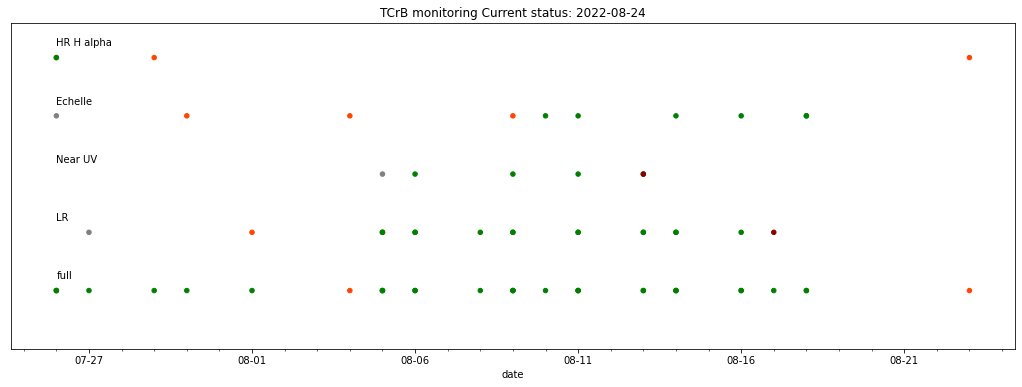
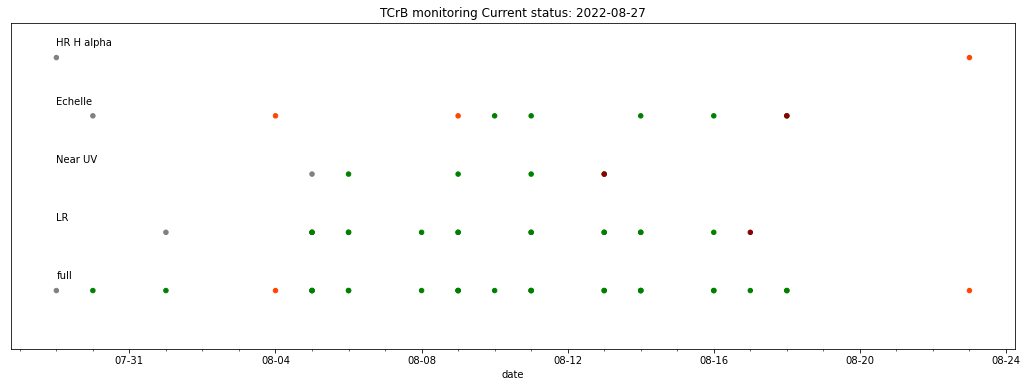
2022-08-27

diff --git a/symbiotics-merc.html b/symbiotics-merc.html
@@ -1648,6 +1648,22 @@
       <td><a href="figures/asdb_v371cra_20220824_238.png" target="_blank"><svg width="1em" height="1em" viewBox="0 0 16 16" class="bi bi-eye" fill="currentColor" xmlns="http://www.w3.org/2000/svg"><path fill-rule="evenodd" d="M16 8s-3-5.5-8-5.5S0 8 0 8s3 5.5 8 5.5S16 8 16 8zM1.173 8a13.134 13.134 0 0 0 1.66 2.043C4.12 11.332 5.88 12.5 8 12.5c2.12 0 3.879-1.168 5.168-2.457A13.134 13.134 0 0 0 14.828 8a13.133 13.133 0 0 0-1.66-2.043C11.879 4.668 10.119 3.5 8 3.5c-2.12 0-3.879 1.168-5.168 2.457A13.133 13.133 0 0 0 1.172 8z"/><path fill-rule="evenodd" d="M8 5.5a2.5 2.5 0 1 0 0 5 2.5 2.5 0 0 0 0-5zM4.5 8a3.5 3.5 0 1 1 7 0 3.5 3.5 0 0 1-7 0z"/></svg></a></td>
       <td></td>
     </tr>
+    <tr>
+      <td>Src 196</td>
+      <td>2022-08-26</td>
+      <td>8:20</td>
+      <td>59817.348</td>
+      <td>2SPOT</td>
+      <td>DSC-CL</td>
+      <td>568</td>
+      <td><svg xmlns="http://www.w3.org/2000/svg" width="5" height="16" fill="#007bff" class="bi bi-square-fill" viewBox="1 0 5 16"><path d="M0 2a2 2 0 0 1 2-2h12a2 2 0 0 1 2 2v12a2 2 0 0 1-2 2H2a2 2 0 0 1-2-2V2z"/></svg></td>
+      <td>3850</td>
+      <td>7808</td>
+      <td><svg xmlns="http://www.w3.org/2000/svg" width="5" height="16" fill="#151B8D" class="bi bi-square-fill" viewBox="1 0 5 16"><path d="M0 2a2 2 0 0 1 2-2h12a2 2 0 0 1 2 2v12a2 2 0 0 1-2 2H2a2 2 0 0 1-2-2V2z"/></svg><svg xmlns="http://www.w3.org/2000/svg" width="5" height="16" fill="#4AA02C" class="bi bi-square-fill" viewBox="1 0 5 16"><path d="M0 2a2 2 0 0 1 2-2h12a2 2 0 0 1 2 2v12a2 2 0 0 1-2 2H2a2 2 0 0 1-2-2V2z"/></svg><svg xmlns="http://www.w3.org/2000/svg" width="5" height="16" fill="#EAC117" class="bi bi-square-fill" viewBox="1 0 5 16"><path d="M0 2a2 2 0 0 1 2-2h12a2 2 0 0 1 2 2v12a2 2 0 0 1-2 2H2a2 2 0 0 1-2-2V2z"/></svg><svg xmlns="http://www.w3.org/2000/svg" width="5" height="16" fill="#E42217" class="bi bi-square-fill" viewBox="1 0 5 16"><path d="M0 2a2 2 0 0 1 2-2h12a2 2 0 0 1 2 2v12a2 2 0 0 1-2 2H2a2 2 0 0 1-2-2V2z"/></svg><svg xmlns="http://www.w3.org/2000/svg" width="5" height="16" fill="#8C001A" class="bi bi-square-fill" viewBox="1 0 5 16"><path d="M0 2a2 2 0 0 1 2-2h12a2 2 0 0 1 2 2v12a2 2 0 0 1-2 2H2a2 2 0 0 1-2-2V2z"/></svg></td>
+      <td><a href="spectra/asdb_src196_20220826_347.fit" download target="_blank"><svg width="1em" height="1em" viewBox="0 0 16 16" class="bi bi-download" fill="currentColor" xmlns="http://www.w3.org/2000/svg"><path fill-rule="evenodd" d="M.5 8a.5.5 0 0 1 .5.5V12a1 1 0 0 0 1 1h12a1 1 0 0 0 1-1V8.5a.5.5 0 0 1 1 0V12a2 2 0 0 1-2 2H2a2 2 0 0 1-2-2V8.5A.5.5 0 0 1 .5 8z"/><path fill-rule="evenodd" d="M5 7.5a.5.5 0 0 1 .707 0L8 9.793 10.293 7.5a.5.5 0 1 1 .707.707l-2.646 2.647a.5.5 0 0 1-.708 0L5 8.207A.5.5 0 0 1 5 7.5z"/><path fill-rule="evenodd" d="M8 1a.5.5 0 0 1 .5.5v8a.5.5 0 0 1-1 0v-8A.5.5 0 0 1 8 1z"/></svg></a></td>
+      <td><a href="figures/asdb_src196_20220826_347.png" target="_blank"><svg width="1em" height="1em" viewBox="0 0 16 16" class="bi bi-eye" fill="currentColor" xmlns="http://www.w3.org/2000/svg"><path fill-rule="evenodd" d="M16 8s-3-5.5-8-5.5S0 8 0 8s3 5.5 8 5.5S16 8 16 8zM1.173 8a13.134 13.134 0 0 0 1.66 2.043C4.12 11.332 5.88 12.5 8 12.5c2.12 0 3.879-1.168 5.168-2.457A13.134 13.134 0 0 0 14.828 8a13.133 13.133 0 0 0-1.66-2.043C11.879 4.668 10.119 3.5 8 3.5c-2.12 0-3.879 1.168-5.168 2.457A13.133 13.133 0 0 0 1.172 8z"/><path fill-rule="evenodd" d="M8 5.5a2.5 2.5 0 1 0 0 5 2.5 2.5 0 0 0 0-5zM4.5 8a3.5 3.5 0 1 1 7 0 3.5 3.5 0 0 1-7 0z"/></svg></a></td>
+      <td></td>
+    </tr>
   </tbody>
 </table></div>
     </div>

diff --git a/symbiotics.html b/symbiotics.html
@@ -74,7 +74,7 @@
  <style>table {text-align: center;}table thead th {text-align: center;}</style>
 <p class="card-text">Number of stars: 104
 </p><p class="card-text">Number of spectra: 7707
-</p><p class="card-text">Last update: 2022-08-26, 06:29</p>
+</p><p class="card-text">Last update: 2022-08-27, 10:08</p>
 <br><br>
 <a href="observers.html" class="btn btn-secondary">Observers</a>
         <a href="observatories.html" class="btn btn-secondary">Observatories</a>

diff --git a/novae.html b/novae.html
@@ -71,7 +71,7 @@
  <style>table {text-align: center;}table thead th {text-align: center;}</style>
 <p class="card-text">Number of stars: 61
 </p><p class="card-text">Number of spectra: 3904
-</p><p class="card-text">Last update: 2022-08-26, 06:29</p>
+</p><p class="card-text">Last update: 2022-08-27, 10:08</p>
 <br><br>
 <a href="observers.html" class="btn btn-secondary">Observers</a>
         <a href="observatories.html" class="btn btn-secondary">Observatories</a>

diff --git a/scripts/aras_automatic.py b/scripts/aras_automatic.py
@@ -39,4 +39,4 @@ while comments_anw == 2:
         print("Answer with Y or N.")
       
 #Temporary T CrB campaign
-#import Monitoring_TCrB
+import Monitoring_TCrB
